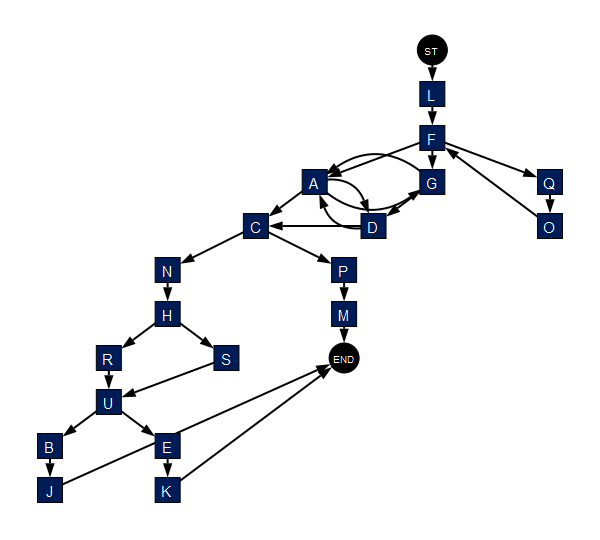
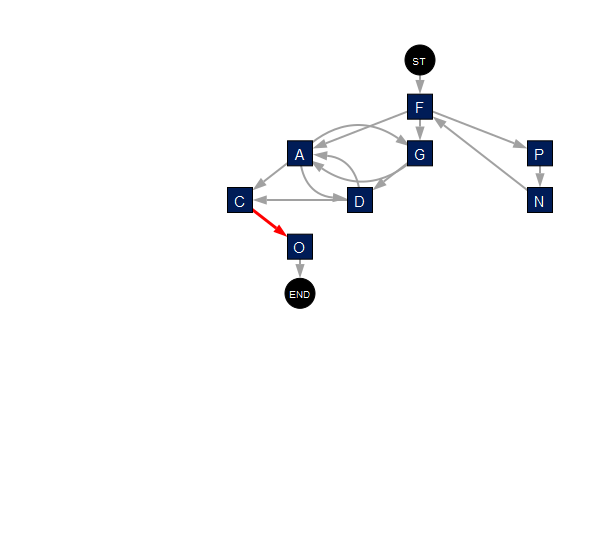
Modifiers

diff --git a/proj/controllers/graphsconstr.py b/proj/controllers/graphsconstr.py
@@ -23,9 +23,9 @@ def get_vertices(df, seq_df_colname='Sequence'):
     df['act seq'] = df[seq_df_colname].apply(lambda x: x.split(' '))
     verts = {i: act for i, act in enumerate(df['act seq'].explode().dropna().drop_duplicates().sort_values())}
     vertices = {i: rotulo(i) for i in verts.keys()}
-
-    vertices[get_key('Start_Process', verts)] = 'ST'
-    vertices[get_key('End_Process', verts)] = 'END'
+    #print(vertices, verts)
+    # vertices[get_key('Start_Process', verts)] = 'ST'
+    # vertices[get_key('End_Process', verts)] = 'END'
     return vertices, verts
 
 
@@ -53,7 +53,7 @@ def get_graph(vertices, edges):
     g = Graph(directed=True)
     g.add_vertices(vertices.keys())
     g.vs["label"] = list(vertices.values())
-    g.vs["color"] = ['#001c57' if v != 'ST' and v != 'END' else 'black' for v in vertices.values()]
+    g.vs["color"] = ['#001c57' if v.find('ST') == -1 and v.find('END') == -1 else 'black' for v in vertices.values()]
     g.es["color"] = ['black']
     g.add_edges(edges)
     layout = g.layout_reingold_tilford(root=[0])
@@ -73,25 +73,38 @@ def get_diffs(result, g_id1, g_id2, verts, vertices):
     return diff1
 
 
+def find_end_graph(edges_ids, vertices):
+    cnt_end = 1
+    cnt_st = 1
+    print(edges_ids)
+    for edg in edges_ids:
+        if edg[1] not in [arst[0] for arst in edges_ids]:
+            vertices[edg[1]] = 'END' + str(cnt_end) if cnt_end > 1 else 'END'
+            cnt_end += 1
+        if edg[0] not in [arst[1] for arst in edges_ids]:
+            vertices[edg[0]] = 'ST' + str(cnt_st) if cnt_st > 1 else 'ST'
+            cnt_st += 1
+
+
+
 def get_vert_ativ(vertices, edges_ids):
     return [v for v in vertices.keys() if v not in [v for edg in edges_ids if edg[0] == v or edg[1] == v]]
 
 
 def view_config(g, vertices, edges_ids):
     def sizes(op1, op2, op3):
-        return [op1 if v == get_key('ST', vertices) or v == get_key('END', vertices)
-                else op2 if v not in get_vert_ativ(vertices, edges_ids) else op3 for v in vertices.keys()]
+        return [op1 if v.find('ST') != -1 or v.find('END') != -1
+                else op2 if get_key(v, vertices) not in get_vert_ativ(vertices, edges_ids) else op3 for v in vertices.values()]
 
-    vshape = ["circle" if edge == 'ST' or edge == 'END' else "rectangle" for edge in vertices.values()]
-    print(vertices)
-    layout = g.layout_reingold_tilford(root=[get_key('ST', vertices)])
+    vshape = ["circle" if edge.find('ST') != -1 or edge.find('END') != -1 else "rectangle" for edge in vertices.values()]
+    layout = g.layout_reingold_tilford(root=[edges_ids[0][0]])
 
     return sizes(30, 25, 0), sizes(10, 15, 0), vshape, layout  # sizev, sizel, vshape, layoutgraph
 
 
 def createimgtrans(c1, c2, nome):
     result = default.pdirectory[default.datafilter['arq']].copy()
-    result['Sequence'] = result['Sequence'].apply(lambda x: 'Start_Process ' + x + ' End_Process')
+    # result['Sequence'] = result['Sequence'].apply(lambda x: 'Start_Process ' + x + ' End_Process')
     vertices, verts = get_vertices(result)
 
     # recebendo as diferenças entre o cluster c1 e o cluster c2. Lista do que tem em c1 que não tem em c2
@@ -99,17 +112,16 @@ def createimgtrans(c1, c2, nome):
 
     _, edlog_ids = get_edges(result, verts, vertices)
     edges_labels, edges_ids = get_edges(result[result.cluster == int(c1)], verts, vertices)
-
+    find_end_graph(edges_ids, vertices)
+    print(vertices)
     # order_edges(edges_ids, vertices, edges_labels)
     ord_edges = list(set(edlog_ids) - set(edges_ids)) + edges_ids
-    diffs_edges = [(get_key(i, vertices), get_key(j, vertices)) for i, j in edges_labels]
-
-    g = get_graph(vertices, list(set(ord_edges) - set(diffs_edges)) + diffs_edges)
+    g = get_graph(vertices, list(set(ord_edges) - set(edges_ids)) + edges_ids)
     g.es['color'] = ['#ff0000' if edge.tuple in [(get_key(i, vertices), get_key(j, vertices)) for i, j in
-                                                 diffes] else 'white' if edge.tuple not in diffs_edges else '#a1a1a1' for
+                                                 diffes] else 'white' if edge.tuple not in edges_ids else '#a1a1a1' for
                      edge in g.es]
     edwitdh = [3 if edge.tuple in [(get_key(i, vertices), get_key(j, vertices)) for i, j in
-                                                 diffes] else 0 if edge.tuple not in diffs_edges else 2 for
+                                                 diffes] else 0 if edge.tuple not in edges_ids else 2 for
                      edge in g.es]
 
     # setando configurações de visualização
@@ -129,20 +141,19 @@ def get_diff_cluster(vertices, edges_ids, edges_ids2):
 
 def createimgativs(c1, c2, nome):
     result = default.pdirectory[default.datafilter['arq']].copy()
-    result['Sequence'] = result['Sequence'].apply(lambda x: 'Start_Process ' + x + ' End_Process')
+    #result['Sequence'] = result['Sequence'].apply(lambda x: 'Start_Process ' + x + ' End_Process')
     vertices, verts = get_vertices(result)
     _, edlog_ids = get_edges(result, verts, vertices)
 
     edges_labels, edges_ids = get_edges(result[result.cluster == int(c1)], verts, vertices)
     _, edges_ids2 = get_edges(result[result.cluster == int(c2)], verts, vertices)
     # order_edges(edges_ids, vertices, edges_labels)
+    find_end_graph(edges_ids, vertices)
     g = get_graph(vertices, list(set(edlog_ids) - set(edges_ids)) + edges_ids)
-    g.es['color'] = ['white' if edge.tuple not in [(get_key(i, vertices), get_key(j, vertices)) for i, j in
-                                                   edges_labels] else 'black' for edge in g.es]
+    g.es['color'] = ['white' if edge.tuple not in edges_ids else 'black' for edge in g.es]
 
     diffclus = get_diff_cluster(vertices, edges_ids, edges_ids2) # procura atividades que tem em C2, mas não tem em C1
-    print(diffclus)
-    atcolor = ['black' if vertices[n] == 'ST' or vertices[n] == 'END' else '#f0a202' if n in diffclus and nome == "g1"
+    atcolor = ['black' if vertices[n].find('ST') != -1 or vertices[n].find('END') != -1 else '#f0a202' if n in diffclus and nome == "g1"
                else '#f27cc9' if n in diffclus and nome == "g2" else '#001c57' for n in vertices.keys()]
 
     lcolor = ['black' if n in get_diff_cluster(vertices, edges_ids, edges_ids2) else 'white' for n in vertices.keys()]
